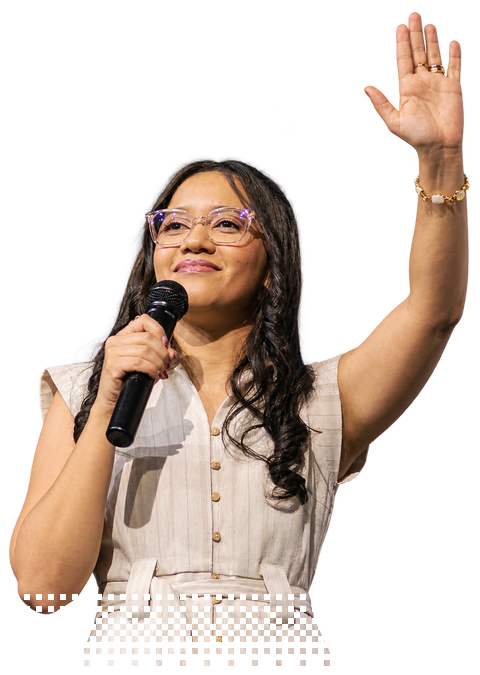
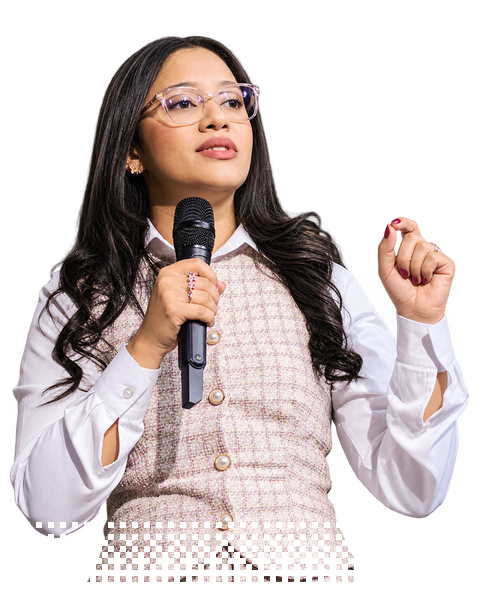
Line-up: nova foto da Pra. Debora e cards maiores
Foto mais fechada, com o rosto no mesmo tamanho do da Salmista Diorgenis.
Card ate 460 px (447 px num notebook de 870 px de altura), ainda cabendo
inteiro na tela.

diff --git a/index.html b/index.html
@@ -366,7 +366,7 @@
                     <li class="lineup-item">
                         <button class="lineup-card" type="button" data-bio="bio-1" data-nome="Pra. Débora Cordeiro" aria-label="Ver biografia: Pra. Débora Cordeiro">
                             <span class="lineup-palco" aria-hidden="true"></span>
-                            <span class="lineup-foto midia" data-rotulo="foto" style="--proporcao: 800 / 1125"><picture><source type="image/webp" srcset="assets/imagens/lineup/1-480.webp?v=5 480w, assets/imagens/lineup/1-800.webp?v=5 800w" sizes="(min-width: 1024px) 380px, 50vw"><img src="assets/imagens/lineup/1-480.png?v=5" alt="" width="480" height="675" loading="lazy"></picture></span>
+                            <span class="lineup-foto midia" data-rotulo="foto" style="--proporcao: 800 / 1000"><picture><source type="image/webp" srcset="assets/imagens/lineup/1-480.webp?v=6 480w, assets/imagens/lineup/1-800.webp?v=6 800w" sizes="(min-width: 1024px) 380px, 50vw"><img src="assets/imagens/lineup/1-480.png?v=6" alt="" width="480" height="600" loading="lazy"></picture></span>
                             <span class="lineup-veu" aria-hidden="true"></span>
                             <span class="lineup-nome" aria-hidden="true">
                                 <span class="lineup-nome-1">Débora</span>
@@ -381,7 +381,7 @@
                     <li class="lineup-item">
                         <button class="lineup-card" type="button" data-bio="bio-2" data-nome="Salmista Diorgenis Martinez" aria-label="Ver biografia: Salmista Diorgenis Martinez">
                             <span class="lineup-palco" aria-hidden="true"></span>
-                            <span class="lineup-foto midia" data-rotulo="foto" style="--proporcao: 800 / 1025"><picture><source type="image/webp" srcset="assets/imagens/lineup/2-480.webp?v=5 480w, assets/imagens/lineup/2-800.webp?v=5 800w" sizes="(min-width: 1024px) 380px, 50vw"><img src="assets/imagens/lineup/2-480.png?v=5" alt="" width="480" height="615" loading="lazy"></picture></span>
+                            <span class="lineup-foto midia" data-rotulo="foto" style="--proporcao: 800 / 1025"><picture><source type="image/webp" srcset="assets/imagens/lineup/2-480.webp?v=6 480w, assets/imagens/lineup/2-800.webp?v=6 800w" sizes="(min-width: 1024px) 380px, 50vw"><img src="assets/imagens/lineup/2-480.png?v=6" alt="" width="480" height="615" loading="lazy"></picture></span>
                             <span class="lineup-veu" aria-hidden="true"></span>
                             <span class="lineup-nome" aria-hidden="true">
                                 <span class="lineup-nome-1">Diorgenis</span>

diff --git a/style.css b/style.css
@@ -1786,13 +1786,13 @@ html.entrada-ativa .entrada.is-dissolvendo {
 .lineup-trilho {
     list-style: none;
     display: grid;
-    /* cada card tem no máximo 400 px e nunca passa da altura da tela
+    /* cada card tem no máximo 460 px e nunca passa da altura da tela
        (2:3 + a cabeça que sai do topo): no notebook os dois cabem inteiros */
-    --card-max: min(400px, calc((100svh - 250px) * 2 / 3));
+    --card-max: min(460px, calc((100svh - 200px) * 2 / 3));
     grid-template-columns: repeat(2, minmax(0, var(--card-max)));
     justify-content: center;
     gap: clamp(20px, 6vw, 96px);
-    max-width: 920px;
+    max-width: 1080px;
     margin-inline: auto;
     /* folga no topo para a cabeça (e a mão da Débora) que saem do card */
     padding: clamp(84px, 25vw, 170px) var(--lateral) 20px;
